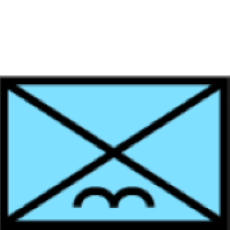
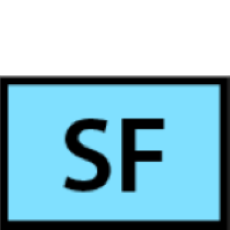
more images

Changed region(s): [[0.0304, 0.3652, 0.9739, 0.9739]]

diff --git a/assets/js/config.js b/assets/js/config.js
@@ -205,6 +205,7 @@ const UNIT_ICON_ASSETS = {
     units: {
         TANK: 'tank.png',
         CRUISE_MISSILE_UNIT: 'missile.png',
+        TOMAHAWK: 'missile.png',
         SF: 'sf.png',
         SOLDIER_SQUAD: 'infantry.png',
         CARRIER: 'carrier.png',
@@ -218,6 +219,15 @@ const UNIT_ICON_ASSETS = {
         IFV: 'ifv.png',
         APC: 'apc.png',
         SAM_SITE: 'radarsam.png',
+        IR_APC: 'airdefmissile.png',
+        AWACS: 'awacs.png',
+        STRIKE: 'strike.png',
+        BOMBER: 'bomber.png',
+        DESTROYER: 'seasurface.png',
+        ARSENAL_CRUISER: 'seasurface.png',
+        HUNTER_FRIGATE: 'seasurface.png',
+        ATTACK_HELI: 'attackheli.png',
+        TRANSPORT: 'transport.png',
         SSBN: 'submarine.png'
     }
 };

diff --git a/README.md b/README.md
@@ -28,4 +28,4 @@ A browser strategy/action prototype with aerial, naval, and ground combat.
 
 ## Running
 
-Open `index.html` in a browser.
+Open `index.html` in a browser, or [visit it on github](https://super413.github.io/aerocommand/)
